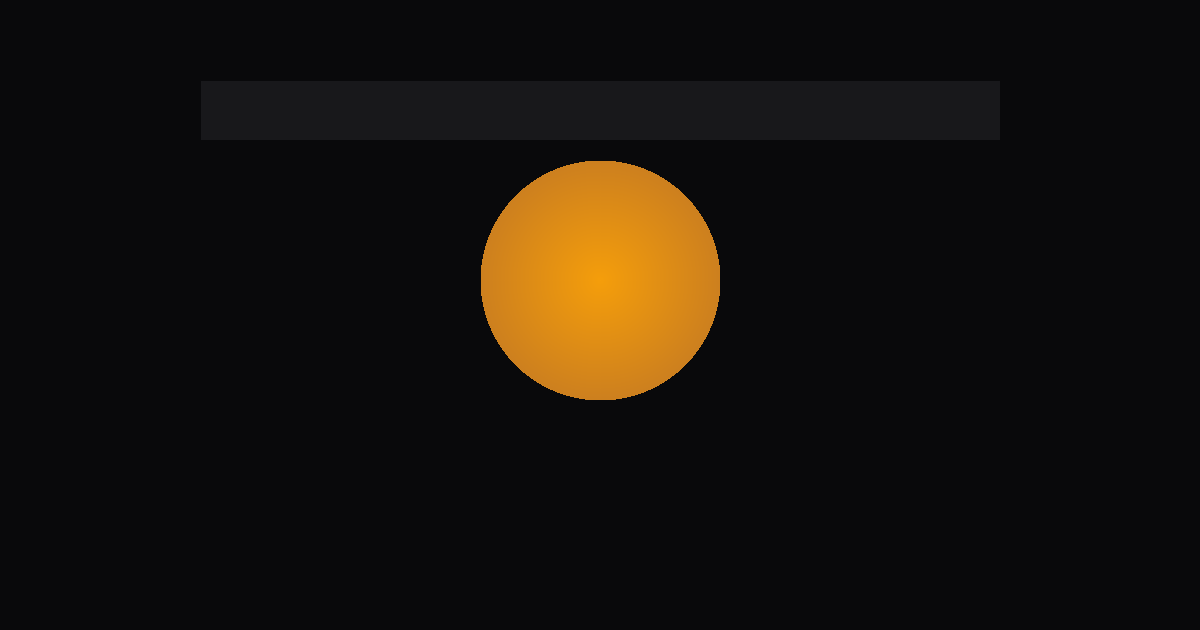
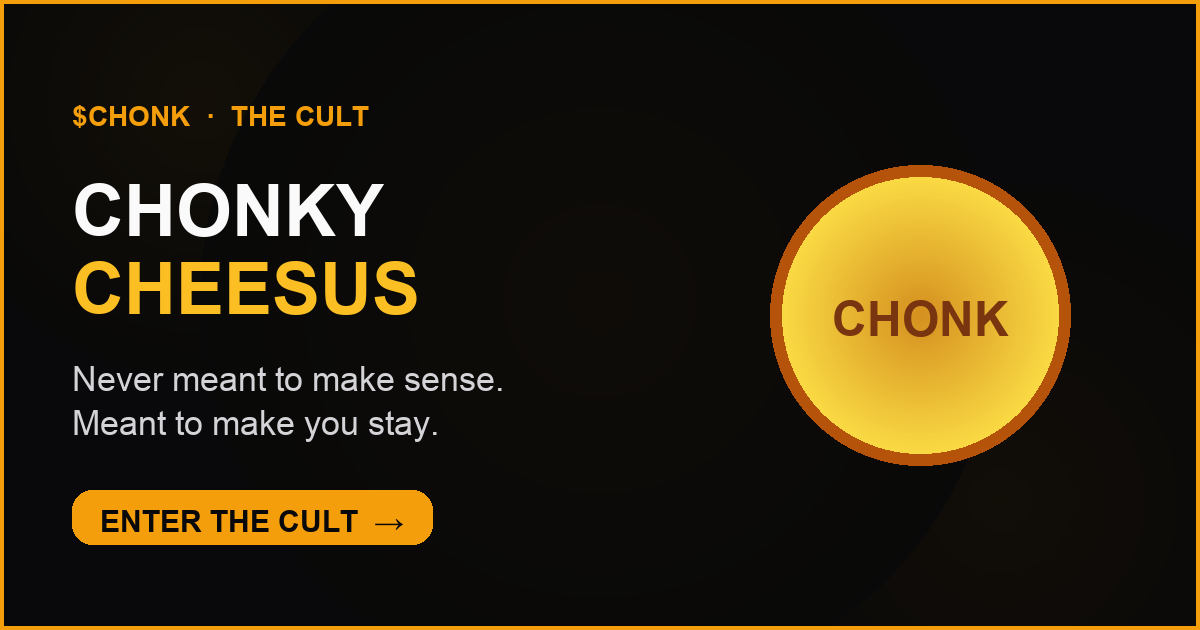
Improve OG share card with headline and CTA
Replace abstract og-image with clear CHONKY CHEESUS headline,
tagline, and ENTER THE CULT button; tighten og/twitter meta copy.

diff --git a/chonnkylore.html b/chonnkylore.html
@@ -4,17 +4,21 @@
     <meta charset="UTF-8">
     <meta name="viewport" content="width=device-width, initial-scale=1.0">
     <title>The Inner Sanctum • Chonky Cheesus</title>
-    <meta name="description" content="Three trials. Literacy is belonging. Prove you read the myth of Chonky Cheesus.">
+    <meta name="description" content="Three trials. Literacy is belonging. Prove you read the myth — then return transformed.">
     <meta name="theme-color" content="#09090b">
     <link rel="icon" href="/favicon.svg" type="image/svg+xml">
     <meta property="og:type" content="website">
-    <meta property="og:title" content="The Inner Sanctum • Chonky Cheesus">
-    <meta property="og:description" content="Three trials. Literacy is belonging. Prove you read the myth.">
+    <meta property="og:title" content="Inner Sanctum — Prove you read the myth | Chonky Cheesus">
+    <meta property="og:description" content="Three trials for true believers. Complete them and return as Disciple. Enter via the main cult page.">
     <meta property="og:url" content="https://chonky-cheesus.onrender.com/chonnkylore.html">
     <meta property="og:image" content="https://chonky-cheesus.onrender.com/og-image.png">
+    <meta property="og:image:type" content="image/png">
+    <meta property="og:image:width" content="1200">
+    <meta property="og:image:height" content="630">
+    <meta property="og:image:alt" content="Chonky Cheesus — Enter the cult">
     <meta name="twitter:card" content="summary_large_image">
-    <meta name="twitter:title" content="The Inner Sanctum • Chonky Cheesus">
-    <meta name="twitter:description" content="Three trials. Literacy is belonging.">
+    <meta name="twitter:title" content="Inner Sanctum — Prove you read the myth">
+    <meta name="twitter:description" content="Three trials. Literacy is belonging. Return as Disciple.">
     <meta name="twitter:image" content="https://chonky-cheesus.onrender.com/og-image.png">
     <script src="https://cdn.tailwindcss.com"></script>
     <link rel="preconnect" href="https://fonts.googleapis.com">

diff --git a/newchonky.html b/newchonky.html
@@ -4,21 +4,25 @@
     <meta charset="UTF-8">
     <meta name="viewport" content="width=device-width, initial-scale=1.0">
     <title>$CHONK • Chonky Cheesus</title>
-    <meta name="description" content="The only memecoin that gets thicker the more you believe. Discover fragments. Transcend the sanctum. Join the cult.">
+    <meta name="description" content="Click the cheese. Collect 7 lore fragments. Enter the sanctum. $CHONK — never meant to make sense, meant to make you stay.">
     <meta name="theme-color" content="#09090b">
     <link rel="icon" href="/favicon.svg" type="image/svg+xml">
     <meta property="og:type" content="website">
     <meta property="og:site_name" content="Chonky Cheesus">
-    <meta property="og:title" content="$CHONK • Chonky Cheesus">
-    <meta property="og:description" content="Never meant to make sense. Meant to make you stay. Discover the fragments. Enter the cult.">
+    <meta property="og:title" content="Chonky Cheesus — Enter the cult of $CHONK">
+    <meta property="og:description" content="Click the cheese. Unlock 7 fragments. Prove yourself in the Inner Sanctum. Never meant to make sense — meant to make you stay.">
     <meta property="og:url" content="https://chonky-cheesus.onrender.com/newchonky.html">
     <meta property="og:image" content="https://chonky-cheesus.onrender.com/og-image.png">
+    <meta property="og:image:secure_url" content="https://chonky-cheesus.onrender.com/og-image.png">
+    <meta property="og:image:type" content="image/png">
     <meta property="og:image:width" content="1200">
     <meta property="og:image:height" content="630">
+    <meta property="og:image:alt" content="Chonky Cheesus — Enter the cult. Never meant to make sense. Meant to make you stay.">
     <meta name="twitter:card" content="summary_large_image">
-    <meta name="twitter:title" content="$CHONK • Chonky Cheesus">
-    <meta name="twitter:description" content="Never meant to make sense. Meant to make you stay.">
+    <meta name="twitter:title" content="Chonky Cheesus — Enter the cult of $CHONK">
+    <meta name="twitter:description" content="Click the cheese. Unlock 7 fragments. Enter the sanctum. Meant to make you stay.">
     <meta name="twitter:image" content="https://chonky-cheesus.onrender.com/og-image.png">
+    <meta name="twitter:image:alt" content="Chonky Cheesus — Enter the cult">
     <script src="https://cdn.tailwindcss.com"></script>
     <link rel="preconnect" href="https://fonts.googleapis.com">
     <link rel="preconnect" href="https://fonts.gstatic.com" crossorigin>